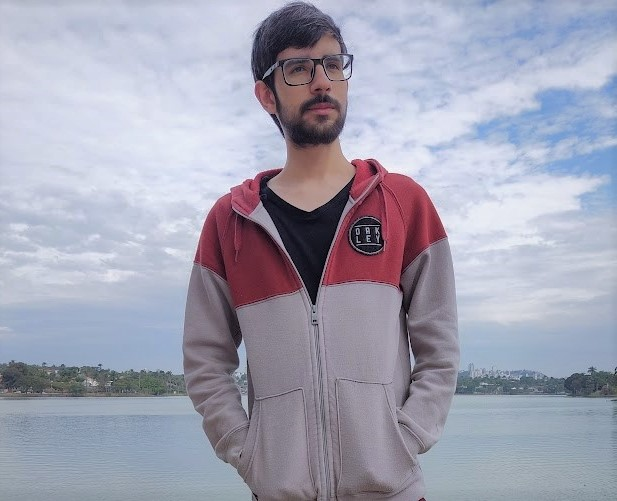
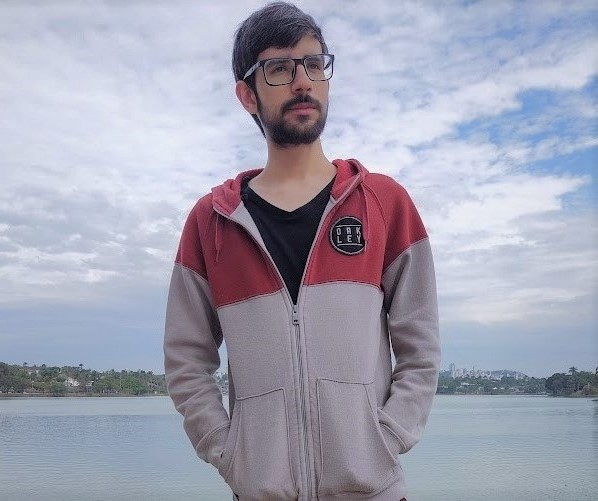
feat: improve image filter and assets

diff --git a/style.css b/style.css
@@ -1,6 +1,7 @@
 /* 
-    declarations: property and its values 
+    selectors, declarations, property and its values 
 */
+
 * {
 	margin: 0;
 	padding: 0;
@@ -15,6 +16,8 @@
 	--surface-color-hover: rgba(255, 255, 255, 0.05);
 	--highlight-color: rgba(255, 255, 255, 0.2);
 	--switch-bg-url: url(./assets/moon-stars.svg);
+	--img-filter: sepia(20%) hue-rotate(-50deg) saturate(120%) contrast(90%)
+		brightness(80%);
 }
 
 .light {
@@ -25,6 +28,8 @@
 	--surface-color-hover: rgba(0, 0, 0, 0.02);
 	--highlight-color: rgba(0, 0, 0, 0.1);
 	--switch-bg-url: url(./assets/sun.svg);
+	--img-filter: sepia(30%) hue-rotate(0deg) saturate(150%) contrast(75%)
+		brightness(110%);
 }
 
 body {
@@ -63,7 +68,7 @@ body * {
 	object-fit: cover;
 	outline: 2px solid var(--stroke-color);
 	outline-offset: -2px;
-	filter: contrast(90%) brightness(95%);
+	filter: var(--img-filter);
 }
 
 #profile p {
